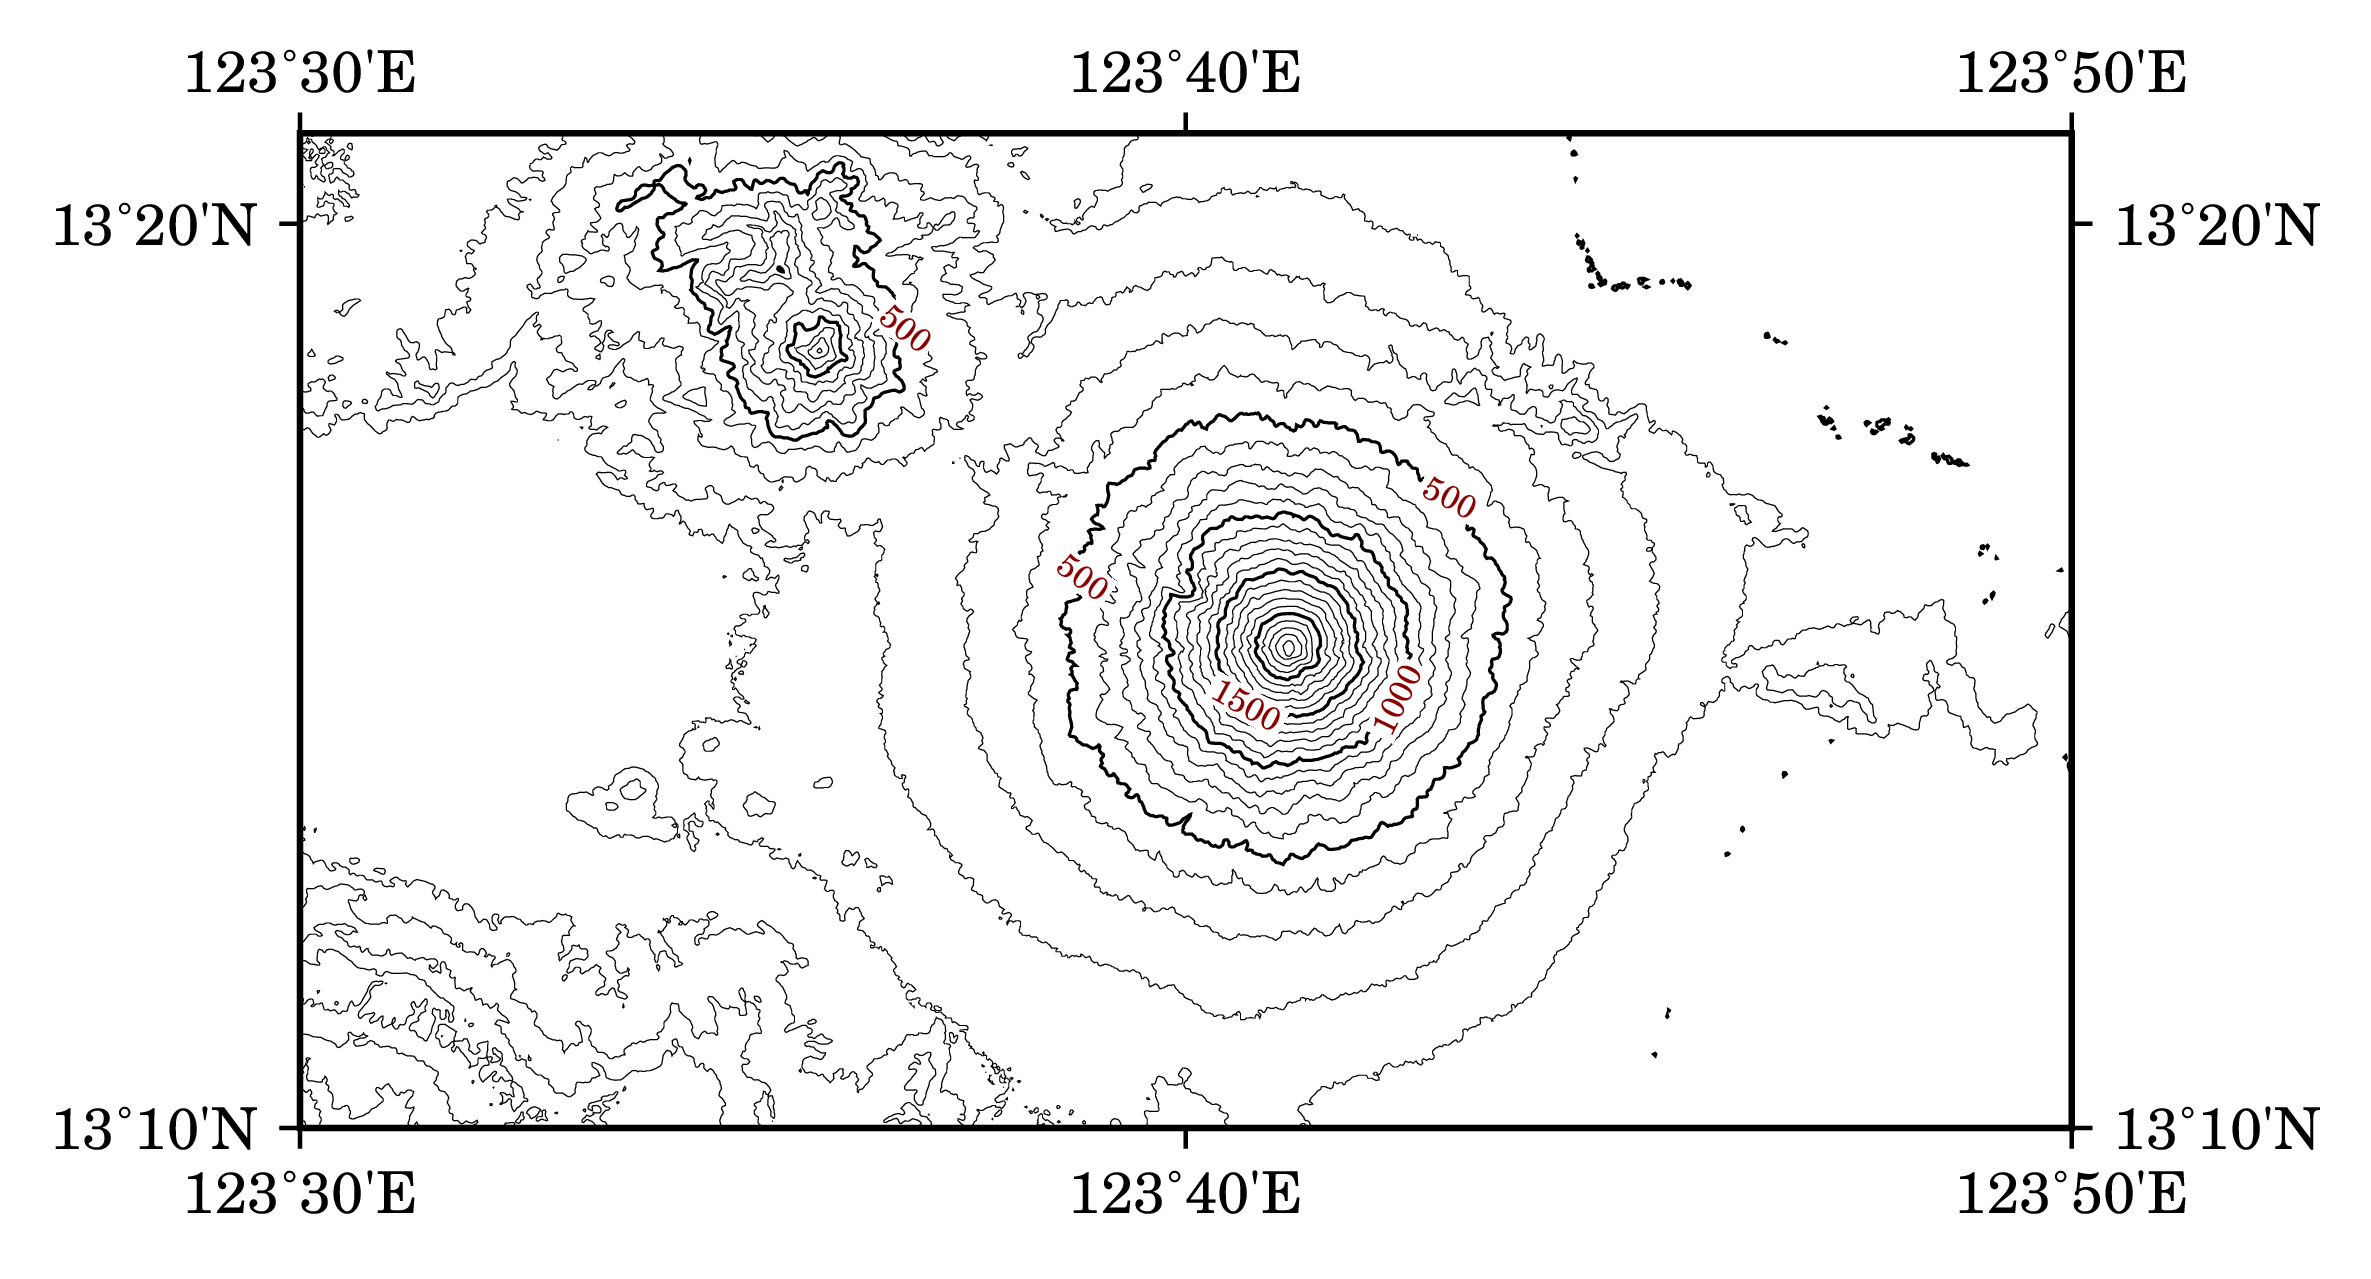
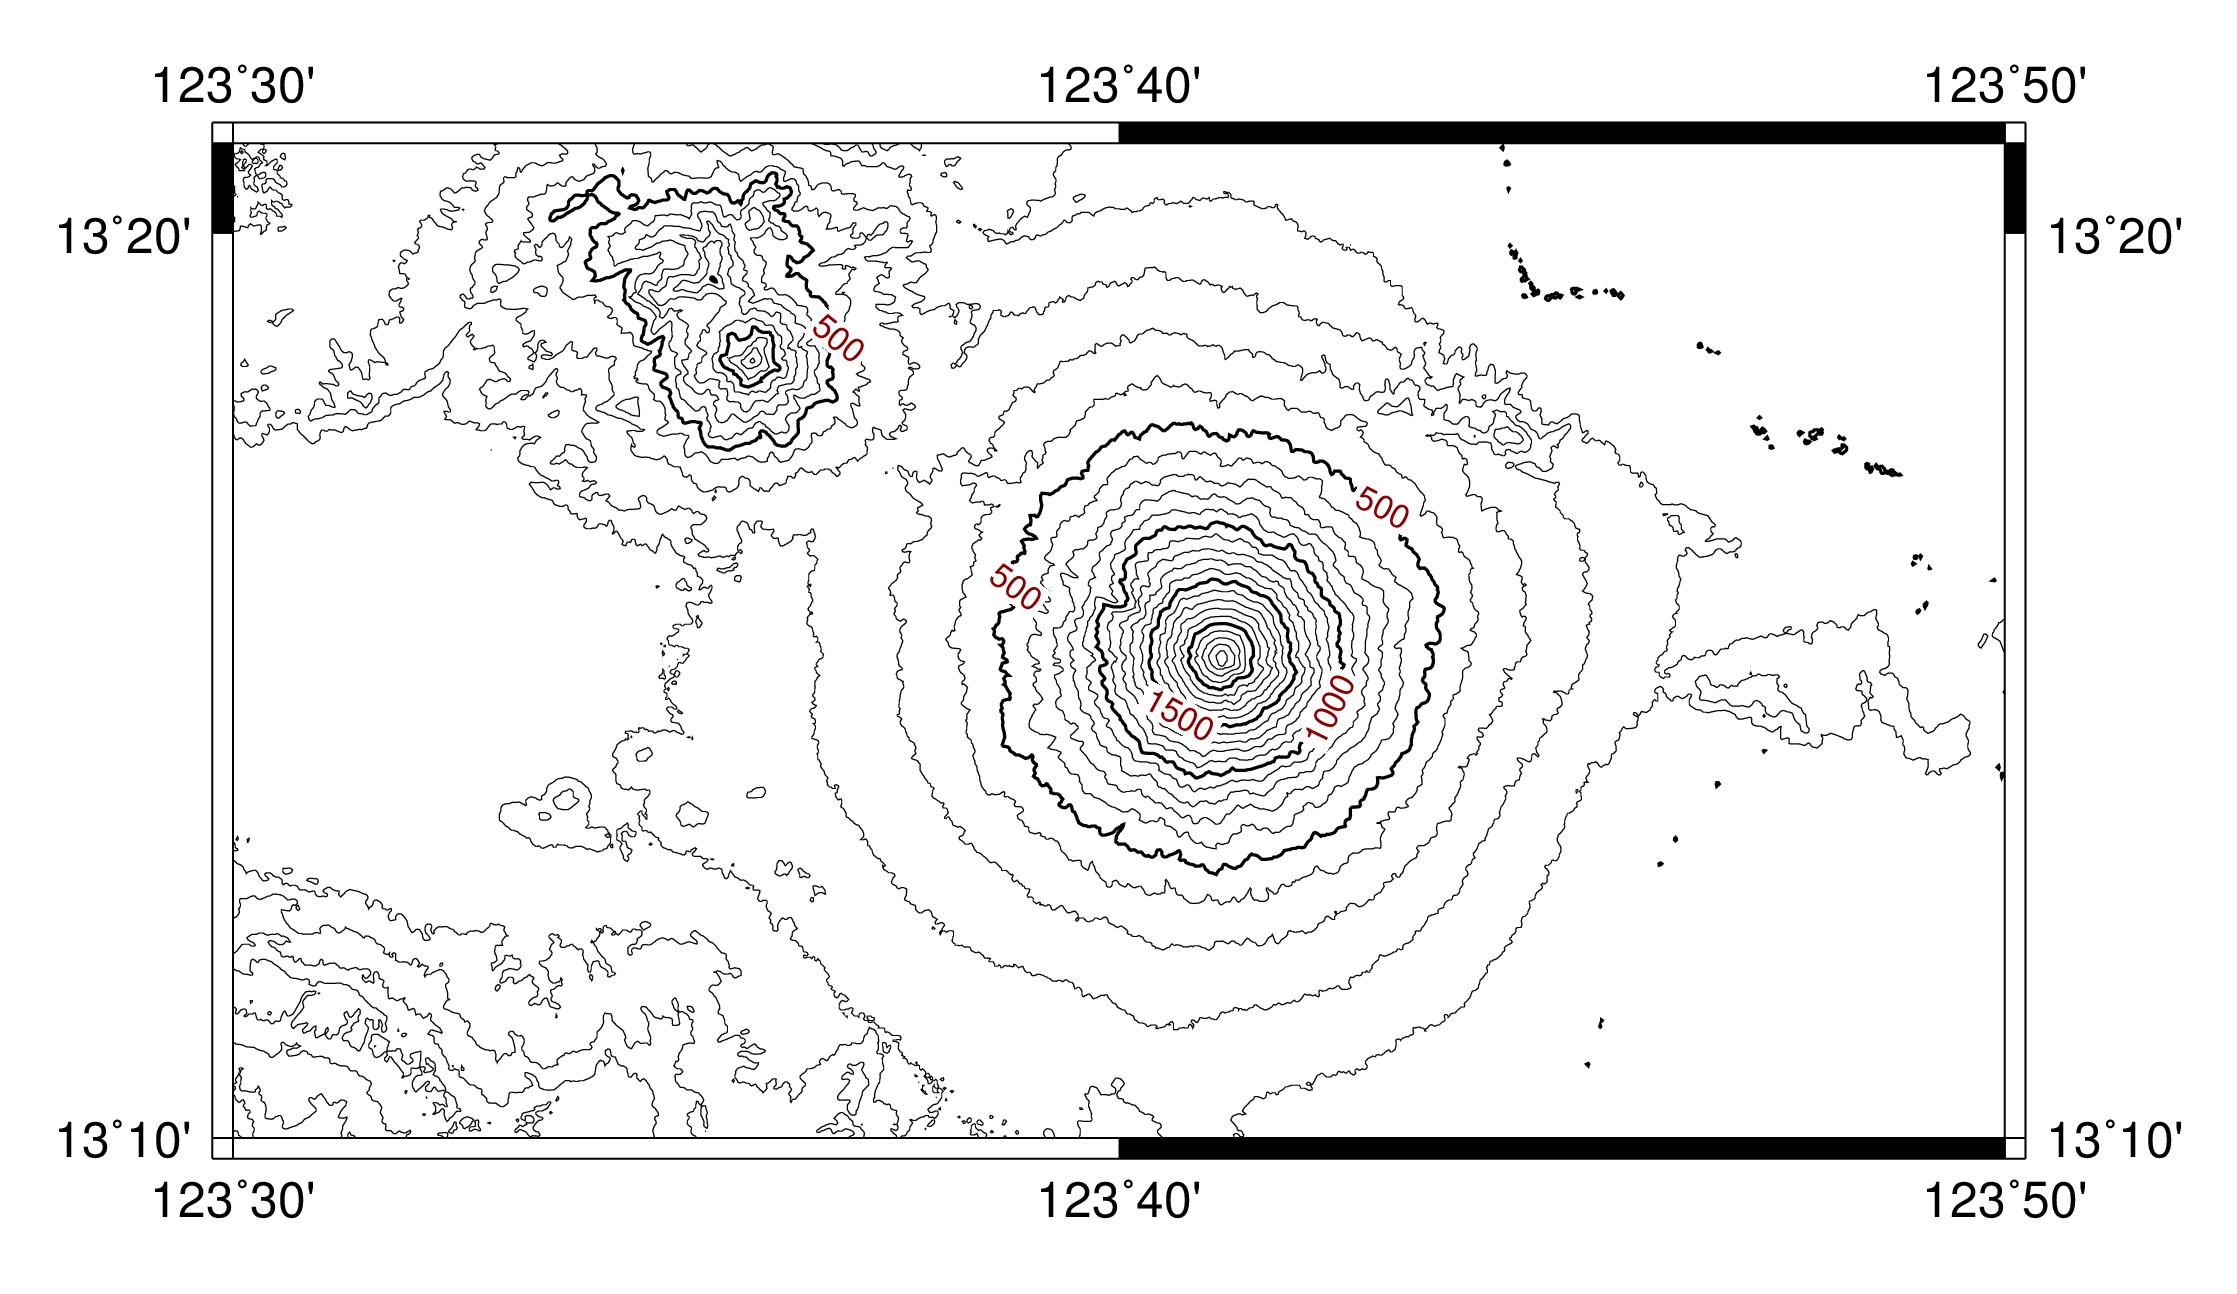
Continue contour*.rst, Start plot_vector*.rst

diff --git a/plot_vector_data.rst b/plot_vector_data.rst
@@ -2,9 +2,25 @@
 繪製向量式資料
 ======================================
 
+地理空間資料通常會以網格形式或向量形式儲存。所謂的向量式資料，其實就是描述「點、線、面」位置與形狀的資料。\
+有關於如何繪製點資料的技巧，我們已經在「\ :doc:`scatter_plot`\ 」一章中提及，因此在本章中，將會\
+說明如何利用 GMT 繪製線段以及多邊形、簡介與 GMT 相容的向量式資料檔案格式，以及透明度的設定--這種填色技巧\
+非常適合用在常常需要疊在一起呈現的向量式資料上。
 
 目標
 --------------------------------------
+繪製一張\ `七巧板 <https://zh.wikipedia.org/wiki/%E4%B8%83%E5%B7%A7%E6%9D%BF>`_\ 的盤面，如下所示。\
+七巧板是一種類似拼圖的玩具，遊玩目標通常是利用 7 個多邊形拼出指定的圖案。這邊拼出的是正方形，也是所有的圖案裡最基本\
+的一種。
+
+在此圖中，七個多邊形顏色均不相同，但都有黑色邊緣，而且在盤面上還有淡色的棋盤式格子，可以幫助你計算每個多邊形的\
+大小。要讓這些線條與多邊形的顏色同時呈現，我們必須要在色階檔中加上透明度的設定，並且使用不同的出圖指令。
+
+.. _最終版圖片:
+
+.. image:: plot_vector_data/tangram.png
+
+直接觀看\ `指令稿`_
 
 
 使用的指令與概念
@@ -21,7 +37,115 @@
 
 指令稿
 --------------------------------------
+本地圖的最終指令稿如下：
 
+.. code-block:: bash
+
+    # ==== 設定變數 ====
+    out_ps="tangram.ps"
+    in_cpt="tangram.cpt"
+
+    # ==== 製作含有透明度的色階檔 ====
+    makecpt -Cwysiwyg -A70 > $in_cpt
+
+    # ==== 開門 (寫入 PS 檔頭) ====
+    psxy -R0/4/0/4 -JX15c -T -K -P > $out_ps
+
+    # ==== 畫線、畫多邊形 ====
+    # 注意線和多邊形的樣式設定其實是寫在各自的檔案中！
+    psxy lines.txt -R -J -O -K >> $out_ps
+    psxy pieces.txt -R -J -O -K -L -C$in_cpt >> $out_ps
+
+    # ==== 關門 (寫入 EOF) ====
+    psxy -R -J -O -T >> $out_ps
+
+    # ==== 轉成 png 檔並保留透明度設定 ====
+    ps2raster $out_ps -A -P -Tg
+
+線段資料 ``lines.txt``：
+
+.. code-block:: bash
+
+    > -W1p,grey,.
+    1 0
+    1 4
+    >
+    2 0
+    2 4
+    >
+    3 0
+    3 4
+    >
+    0 1
+    4 1
+    >
+    0 2
+    4 2
+    >
+    0 3
+    4 3
+    > -W2p,black
+    0 0
+    4 0
+    4 4
+    0 4
+    0 0
+    > 
+    0 4
+    4 0
+    > 
+    0 0
+    3 3
+    > 
+    3 1
+    3 3
+    > 
+    1 3
+    2 4
+    > 
+    2 4
+    4 2
+
+多邊形資料 ``pieces.txt``：
+
+.. code-block:: bash
+
+    > -Z0
+    0 0
+    2 2
+    4 0
+    > -Z3
+    0 0
+    2 2
+    0 4
+    > -Z6
+    0 4
+    1 3
+    2 4
+    > -Z9
+    1 3
+    2 4
+    3 3
+    2 2
+    > -Z12
+    3 3
+    2 2
+    3 1
+    > -Z15
+    3 1
+    3 3
+    4 2
+    4 0
+    > -Z18
+    2 4
+    4 2
+    4 4
+
+.. note::
+
+    「」
+
+觀看\ `最終版圖片`_
 
 習題
 --------------------------------------

diff --git a/contour_and_profile.rst b/contour_and_profile.rst
@@ -140,12 +140,37 @@
 .. code-block:: bash
 
     $ grdcontour n13_e123_1arc_v3.grd -C100 -A500+f8p,,darkred \
-    $ -R123:30E/123:50E/13:10N/13:21N -JM15c -Ba10m -P > mayon_contour.ps
-    $ # -A+f 指定字型樣式
-    $ # -R 格式使用「度:分 + 方位」
-    $ # -Ba 格式使用 10m 表示每 10 弧分做一標注
+                 -R123:30E/123:50E/13:10N/13:21N -JM15c -Ba10m -P > mayon_contour.ps
+    # 等高線每 100 單位 (公尺) 畫一個，每 500 單位則是標注數值的等高線
+    # -A+f 指定字型樣式
+    # -R 格式使用「度:分 + 方位」
+    # -Ba 格式使用 10m 表示每 10 弧分做一標注
+
+出圖會如下所示：
 
 .. image:: contour_and_profile/contour_and_profile_fig6.png
+
+.. note::
+
+    如果你發現你的出圖跟上圖有字型、線條粗細或顏色等等的差異，可以參考\ `指令稿`_ 中的變數與 ``gmtset``\
+    的設定調整。有關 ``gmtset`` 詳細的說明，請參閱\ :doc:`layout_design`。
+
+.. #### 這個 Note 可能也要調整！！####
+
+看起來效果相當不錯！值得注意的是，地圖上有些非常小的斑點，這些斑點在小比例尺的地圖上反而會減少地圖的辨識度。\
+因此，我們可以使用 ``-Q`` 選項，使 ``pscontour`` 略過非常小的等高線環。以下的範例會使用 ``-Q100``，\
+但你也可以自行增減數值，數值越大，表示被略過的等高線長度就越大，反之亦然。
+
+.. #### 這裡可能要講一下為什麼沒有 0m 等高線！！####
+
+完成了本章的第一個重點後，接下來的問題是要怎麼把剖面的線段加到地圖上。如果我們要預計要畫火山的剖面，最簡單的方式\
+就是設定一條直線切穿山腳與山頂。如此一來，我們得先決定直線的起點與終點。以下是在本例中要採用的座標，但你也可以\
+隨自己喜歡變更起點與終點的位置，製造出不同的地形剖面。
+
+- 起點：123.613/13.2236
+- 終點：123.756/13.2862
+
+
 
 指令稿
 --------------------------------------

diff --git a/scatter_plot.rst b/scatter_plot.rst
@@ -18,7 +18,7 @@ XY 點散佈圖
   睽違了 11 年後，再度下雪的日子\ [#]_。\
   這些受「超級寒流」影響的資料點，看起來就像是整個負相關趨勢的離群值。
 
-.. _最終版地圖:
+.. _最終版圖片:
 
 .. image:: scatter_plot/windspeed_vs_temperature.png
 
@@ -435,7 +435,7 @@ GMT 目前支援 *Standard* 與 *ISOLatin1* 兩種字符集，\
     「以兩個不同氣象站的 2016 年 1 月風速與氣溫觀測資料，繪製 XY 散佈圖。圖例、座標軸已清楚的標示，\
     圖中也可清楚看到 Zhuzihu 測站有一個測量點位於攝氏 0 度的灰色虛線左側。」
 
-觀看\ `最終版地圖`_
+觀看\ `最終版圖片`_
 
 習題
 --------------------------------------

diff --git a/basic_concept.rst b/basic_concept.rst
@@ -205,3 +205,4 @@ GMT 5 的語法則是
        `Generic Mapping Tools: Improved Version Released <http://dx.doi.org/10.1002/2013EO450001>`_,
        Eos Trans. AGU, 94(45), 409.
 
+.. 介紹 GIS Raster vs Vector
